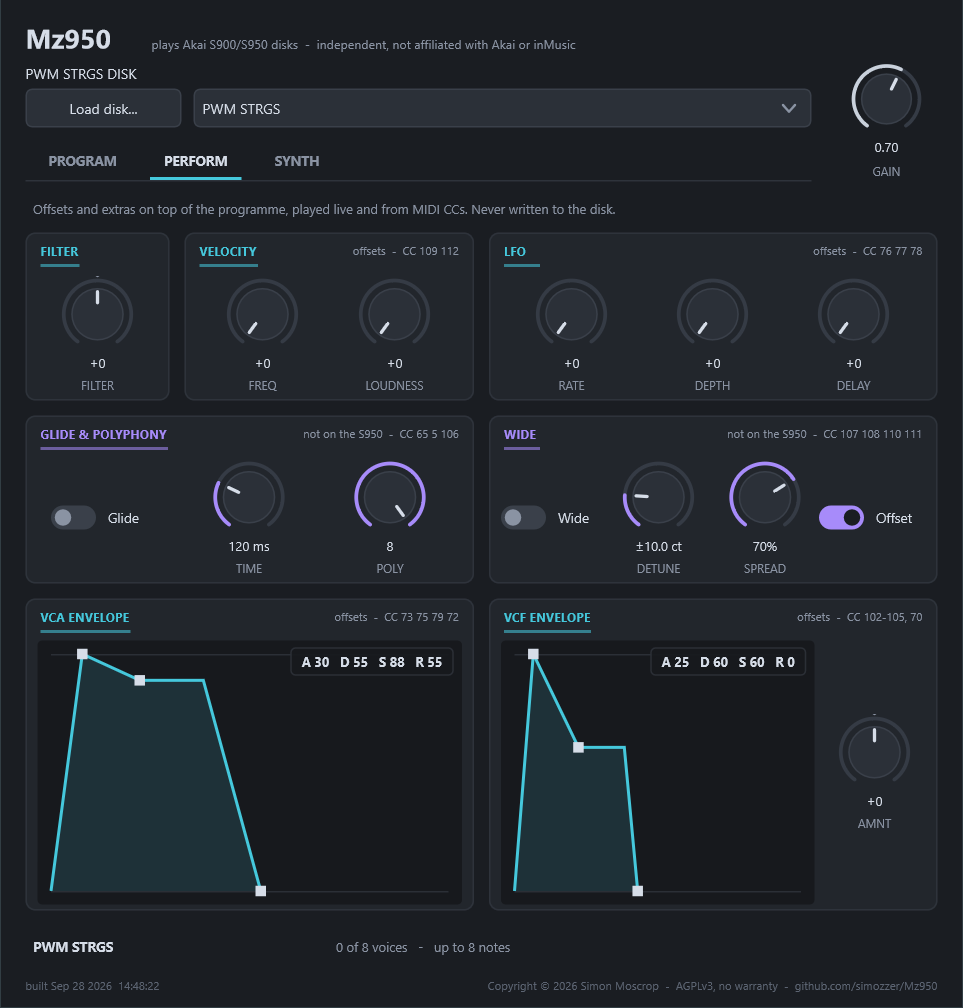
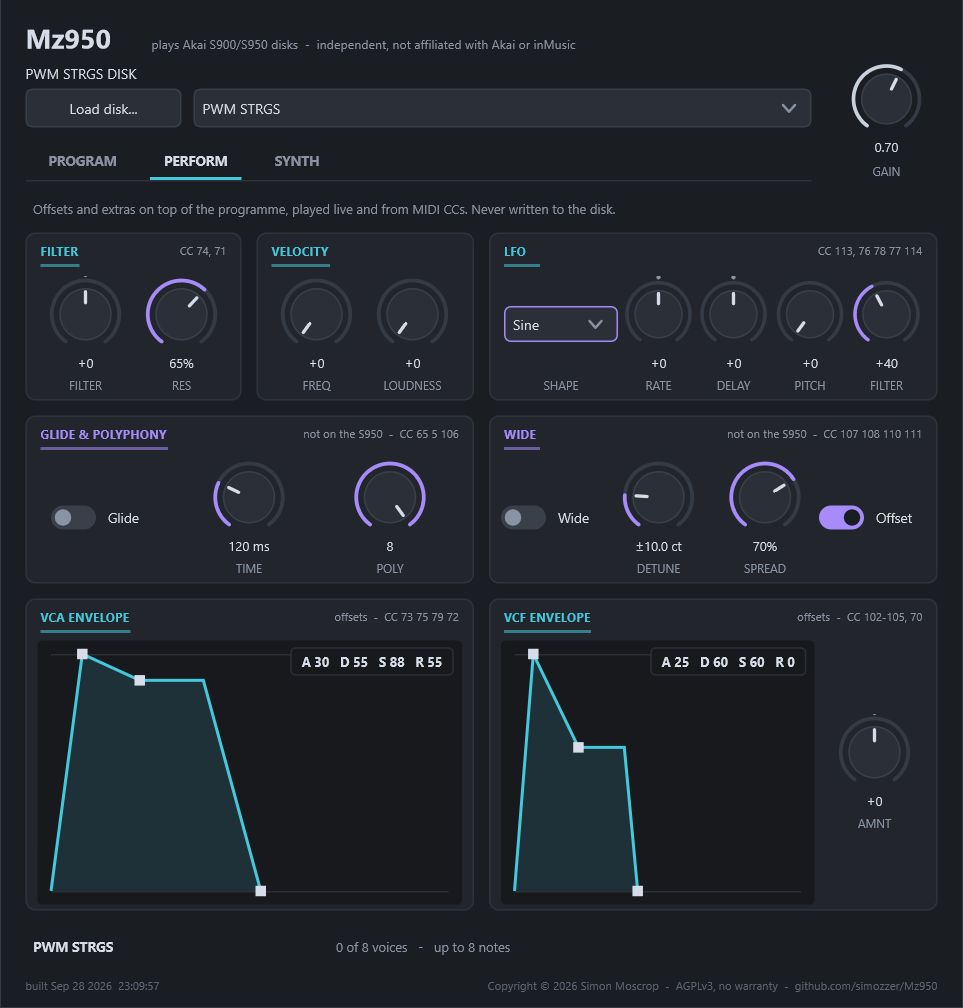
Docs: resonance, LFO shapes and the wider Perform LFO; new Perform screenshot

diff --git a/docs/tutorial.html b/docs/tutorial.html
@@ -430,12 +430,12 @@ there, save it, and load it here.</p>
 <h3>PERFORM — what you do on top of it</h3>
 
 <figure>
-  <img src="img/plugin-perform.png" alt="The Perform tab: the offsets, glide and polyphony, Wide, and the two envelopes as shapes">
+  <img src="img/plugin-perform.png" alt="The Perform tab: filter and resonance, velocity, the LFO with its shape, glide and polyphony, Wide, and the two envelopes as shapes">
   <figcaption>The Perform tab. Cyan panels are offsets on top of the programme; violet ones
   are the extras the S950 never had. Nothing here is ever written to the disk.</figcaption>
 </figure>
 
-<p><strong>Fifteen offsets</strong>, on top of whatever programme is loaded. Every one is an
+<p><strong>The offsets</strong>, on top of whatever programme is loaded. Every one is an
 <em>offset</em> from what the disk says rather than a setting: it reads zero until you turn
 it, double-clicks back to zero, and zero means "play what is on the floppy". That is not a
 detail. A programme carries its own cutoff and its own envelope for each keygroup, often
@@ -443,7 +443,7 @@ quite different ones across the keyboard, and an absolute control would flatten 
 the moment you touched it. An offset keeps the shape its author gave the programme and moves
 the whole of it at once — which is what "brighter" means on an instrument like this.</p>
 
-<p>All fifteen are automatable by the host, and all fifteen answer a MIDI controller — the
+<p>All of them are automatable by the host, and all of them answer a MIDI controller. The
 numbers are in each panel's corner:</p>
 
 <table>
@@ -453,7 +453,8 @@ numbers are in each panel's corner:</p>
       <td>CC 73, 75, 79, 72 · ±99</td></tr>
   <tr><th>VCF envelope</th><td>Attack, Decay, Sustain, Release</td>
       <td>CC 102, 103, 104, 105 · ±99</td></tr>
-  <tr><th>LFO</th><td>Rate, Depth, Delay</td><td>CC 76, 77, 78 · 0–99</td></tr>
+  <tr><th>LFO</th><td>Rate, Delay</td><td>CC 76, 78 · ±99</td></tr>
+  <tr><th>LFO</th><td>Pitch</td><td>CC 77 · 0–99</td></tr>
   <tr><th>Velocity</th><td>Freq, Loudness</td><td>CC 109, 112 · 0–99</td></tr>
 </table>
 
@@ -461,6 +462,19 @@ numbers are in each panel's corner:</p>
 labelled <em>cutoff</em>, <em>attack</em> or <em>vibrato rate</em> reaches the right ones with
 no mapping at all. 102–105 and 109/112 are undefined numbers, taken for the filter envelope
 and for velocity because GM has no assignments for those.</p>
+
+<p>The LFO knobs follow the S950's own scale over the S950's own range and <strong>carry on
+past it</strong>:</p>
+
+<ul>
+  <li><strong>Pitch</strong> keeps the machine's 1.5 cents a step up to +50, then grows to a
+      whole octave at +99.</li>
+  <li><strong>Rate</strong> slows below the machine's 1.8&nbsp;Hz, down to 0.1&nbsp;Hz.</li>
+  <li><strong>Delay</strong> can go negative, which shortens a programme's slow fade-in, or
+      removes it at −99, so short notes get the vibrato too.</li>
+</ul>
+
+<p>At zero, they're exactly the machine's.</p>
 
 <p>The two envelopes are <strong>dragged as shapes</strong> rather than set as eight knobs.
 The corners are the stages, and the graph draws the result for one representative keygroup —
@@ -470,9 +484,9 @@ sound like, not an abstract curve.</p>
 <p>Three things behave in ways worth knowing before they surprise you:</p>
 
 <ul>
-  <li><strong>The LFO and velocity knobs only add</strong>, 0 to 99, where the filter and
-      envelope trims go both ways. Nearly every programme leaves the LFO switched off, so a
-      knob that went negative would spend its whole lower half asking for less than nothing.</li>
+  <li><strong>LFO Pitch and the velocity knobs only add</strong>, 0 to 99, where the rest go
+      both ways. Nearly every programme leaves the LFO's depth at zero, so a knob that went
+      negative would spend its whole lower half asking for less than nothing.</li>
   <li><strong>Velocity → Loudness reaches the next note you play</strong>, not one already
       sounding. It decides how much softer a soft note is, and how hard a key was struck is
       settled when the key goes down. Velocity → Freq <em>does</em> reach a sounding note.</li>
@@ -484,10 +498,23 @@ sound like, not an abstract curve.</p>
 
 <h3>The extras — not on the S950</h3>
 
-<p>Three things the machine never had, in violet, each off by default so a disk still plays
-exactly as the machine would:</p>
+<p>Things the machine never had, in violet, each off or at zero by default, so a disk still
+plays exactly as the machine would:</p>
 
 <table>
+  <tr><th>Resonance</th><td>Res</td><td>CC 71</td>
+      <td>A peak at the filter's cutoff, rising to about +15&nbsp;dB. Past about 92% the
+      filter <strong>self-oscillates</strong>: it sings a sine at the cutoff, following the
+      Filter knob, the filter envelope and velocity, switched on and off by the amp envelope.
+      For a sine you can play in tune, set the keygroups' key-to-filter to 99 on the Program
+      tab. At 0% it's the S950's filter exactly.</td></tr>
+  <tr><th>LFO shape</th><td>Shape</td><td>CC 113</td>
+      <td>Sine (the S950's), Saw, Square or S&amp;H. S&amp;H picks a new random pitch every
+      cycle, at Rate. Every shape starts where the sine does, so switching doesn't jump a held
+      note.</td></tr>
+  <tr><th>LFO to filter</th><td>Filter</td><td>CC 114</td>
+      <td>The LFO moves the cutoff too, by up to three octaves either way, independently of
+      Pitch. Try Square or S&amp;H with some Res for the classic stepped filter.</td></tr>
   <tr><th>Glide</th><td>On, Time</td><td>CC 65, 5</td>
       <td>Portamento. Each note slides in from the last note played in the <em>same
       keygroup</em>, over a fixed time (CC 5: 0 is no glide, 127 is three seconds). Crossing

diff --git a/Plugin/README.md b/Plugin/README.md
@@ -74,9 +74,9 @@ by `build.ps1` on every disk in `disks/`, round-trips every setting and checks t
 byte of the image moves. `crosscheck.ps1` on an edited image confirms the C# Studio reads it
 identically. **An edited programme has not yet been loaded on a real S950.**
 
-**The player's controls.** Sixteen parameters, all automatable by the host and all reachable
-from a MIDI controller: gain, and fifteen trims that move every keygroup of the loaded
-programme together.
+**The player's controls.** Everything on the Perform tab, plus gain, is automatable by the
+host and reachable from a MIDI controller. Most of it is trims that move every keygroup of the
+loaded programme together.
 
 A trim is an *offset* from what the disk says, not a setting. It reads zero until you turn it
 and double-clicks back to zero, and zero means "play what is on the floppy". That matters
@@ -87,19 +87,50 @@ touched. An offset keeps the shape its author gave it and moves the whole of it,
 
 | group | controls | CC | range |
 |---|---|---|---|
-| Sample | Filter | 74 | ±99 |
+| Filter | Filter | 74 | ±99 |
+| Filter | Res *(not on the S950)* | 71 | 0–100%; self-oscillates from about 92% |
 | VCF | Amnt | 70 | ±50 |
 | VCA envelope | Attack, Decay, Sustain, Release | 73, 75, 79, 72 | ±99 |
 | VCF envelope | Attack, Decay, Sustain, Release | 102, 103, 104, 105 | ±99 |
-| LFO | Rate, Depth, Delay | 76, 77, 78 | 0..99 |
+| LFO | Shape *(Sine is the S950's)* | 113 | Sine, Saw, Square, S&H; CC in bands of 32 |
+| LFO | Rate, Delay | 76, 78 | ±99 |
+| LFO | Pitch | 77 | 0..99 |
+| LFO | Filter *(not on the S950)* | 114 | 0..99, up to ±3 octaves of cutoff |
 | Velocity | Freq, Loudness | 109, 112 | 0..99 |
 | Glide *(not on the S950)* | On, Time | 65, 5 | off/on; 0 (no glide) – 3 s |
 | Polyphony *(not on the S950)* | Poly | 106 | 1 (mono) – 8; CC in bands of 16 |
 | Wide *(not on the S950)* | On, Detune, Spread, Offset start | 107, 108, 110, 111 | off/on; ±0–50 cents; 0–100%; off/on |
 
-**Glide is the one addition to the machine.** Everything else here is the S950, measured;
-the S950 has no portamento. It is off by default, so a programme still plays as the disk
-describes it. CC 65 and CC 5 are General MIDI's own portamento switch and time, so a keyboard
+**The additions** are marked *not on the S950* above and drawn in violet on the tab.
+Everything else is the S950, measured. Every addition is off or at zero by default, so a
+programme plays as the disk describes it until you reach for one.
+
+**Resonance.** The S950's filter is a plain 36 dB/octave Butterworth with no peak. **Res**
+raises one up at the cutoff, to about +15 dB at 90%. The input eases down as it rises, by about
+6 dB at the top, the way an analogue filter loses passband, so a hot sample doesn't clip. Past
+about **92% the filter self-oscillates**: it produces a sine at the cutoff that follows Filter,
+the filter envelope, velocity and the LFO's Filter depth, and the VCA switches it on and off.
+It settles at −14 dB per voice, within 0.1% of the cutoff, with harmonics and aliasing below
+−54 dB at 44.1, 48 and 96 kHz. At 0% the filter matches the S950's to within 10⁻¹². It isn't
+tuned to the keyboard: for a playable sine, set the keygroups' key-to-filter to 99 on the
+Program tab.
+
+**The LFO.** The S950's is a sine that moves the pitch. The Perform tab adds three things:
+- **Shape**: Saw, Square and S&H as well as Sine. Every shape starts where the sine does, so
+  changing shape under a held note doesn't jump its pitch. S&H picks a new random level each
+  cycle. Keygroups sharing the programme's LFO (desync off) step together, and desynced ones
+  step on their own.
+- **A longer reach:**
+  - **Pitch** depth follows the machine's 1.5 cents a step to +50, then grows to a whole
+    octave at +99.
+  - **Rate** goes below the machine's slowest (1.8 Hz), down to 0.1 Hz.
+  - **Delay** can go negative, to shorten or remove a programme's fade-in.
+- **Filter depth**: the LFO moves the cutoff as well, by up to three octaves either way,
+  independently of Pitch. With Square or S&H, that's the classic stepped filter.
+
+At zero, every one of these is the S950's own LFO.
+
+**Glide.** The S950 has no portamento. CC 65 and CC 5 are General MIDI's own portamento switch and time, so a keyboard
 with a glide control reaches them with no mapping. A glide takes the set time whatever the
 interval, straight in semitones, and **stays inside a keygroup**: a note slides from the last
 note played in its own keygroup, and crossing into another one — a different sample, and on a
@@ -126,8 +157,9 @@ and the release hand-over all move both halves together.
 
 72–79 are the General MIDI sound controllers, so a keyboard with knobs labelled *cutoff* and
 *attack* reaches the right ones with no mapping — including 76, 77 and 78 for vibrato rate,
-depth and delay, which is what this machine's LFO is. 102–105 and 109/112 are undefined
-numbers taken for the filter envelope and for velocity, which GM has no assignments for.
+depth and delay, which is what this machine's LFO is, and 71 for resonance. 102–105, 109/112,
+113 and 114 are undefined numbers taken for the filter envelope, velocity, the LFO's shape and
+its filter depth, which GM has no assignments for.
 
 The two envelopes are dragged as shapes rather than set as eight knobs: the corners are the
 stages, and the graph shows the result for one representative keygroup — the programme's own
@@ -135,10 +167,10 @@ values with the trim added — so it is honest about what you will actually hear
 
 Three behaviours worth knowing before they surprise you:
 
-- **The LFO and velocity knobs only add.** The filter and envelope trims go both ways because
-  a programme always has an envelope and always has a cutoff. Nearly every programme leaves
-  the LFO switched off, so a symmetric knob there would spend its whole lower half asking for
-  less than nothing and clamping at zero.
+- **LFO Pitch and Filter, and the velocity knobs, only add.** Nearly every programme leaves the
+  LFO's depth at zero, so a symmetric knob there would spend its whole lower half asking for
+  less than nothing. Rate and Delay go both ways, because a programme always has a rate and a
+  fade-in to move. Past the machine's own range they carry on, as described above.
 - **Velocity → Loudness reaches the next note you play**, not one already sounding. It decides
   how much softer a soft note is, which is a question about the strike, and the strike is over.
   Velocity → Freq does reach a sounding note, because a filter control you cannot play with is
@@ -168,7 +200,8 @@ checked on its own, long before a plugin will load.
 
 ```
 Source/S950/Cal.h           the measured constants, and the mappings from panel bytes
-Source/S950/Filter.h        6th-order Butterworth, three biquads
+Source/S950/Filter.h        6th-order Butterworth: two biquads and a state-variable stage
+                            that resonates and self-oscillates (not the S950's)
 Source/S950/Patch.h         Sound, KeygroupPatch, Patch — what a voice needs
 Source/S950/Disk.h/cpp      reading an .hfe or .img into a Patch; editing keygroup settings
                             in place; building a disk from nothing (samples, programmes,

diff --git a/CHANGELOG.md b/CHANGELOG.md
@@ -6,6 +6,73 @@ Every number here came off a recording of a real S950 rather than out of a manua
 a change is a measurement it says what was measured and what it replaced. Where it is an
 assumption it says that too — those are the ones another afternoon with a recorder settles.
 
+## v0.6.0 — 2026-09-28
+
+Filter resonance up to self-oscillation, LFO shapes, and a Perform-tab LFO that reaches the
+filter and goes further than the S950's. None of it is written to the disk, and at zero all of
+it is the machine.
+
+### Filter resonance
+
+A **Res** knob beside Filter on the Perform tab, MIDI CC 71. The S950's filter has no
+resonance, so this is an addition like glide and Wide, in their violet. It starts at 0%, where
+the filter is the machine's, matching the old one to within 1e-12.
+
+- **Up to 90%:** the peak at the cutoff rises to about +15 dB and the slope stays 36 dB an
+  octave. The input eases down as it rises, by about 6 dB at the top of the range, the way an
+  analogue filter loses passband, so a hot sample doesn't clip.
+- **Past about 92%:** the filter **self-oscillates**, a sine at the cutoff. It follows the
+  Filter knob, the filter envelope and velocity, and the VCA gates it. It settles at -14 dB
+  per voice. The pitch is within 0.2% of the cutoff, and harmonics and aliasing stay below
+  -54 dB at 44.1, 48 and 96 kHz, even with the filter wide open.
+
+How: the filter's resonant stage (Q 1.93) is now a state-variable filter instead of a biquad,
+since a biquad can only ring, never sustain. It has an automatic level control: its damping
+rises with its own smoothed band-pass power and, past the threshold, goes negative. A first
+version damped on the instantaneous signal. It held the level just as well but bent the sine,
+and at a 16 kHz cutoff it folded a tone back at -16 dB. The smoothed follower removed that.
+The other two stages are unchanged. Resonance moves notes already sounding.
+
+### LFO shapes
+
+A **Shape** box in the Perform tab's LFO panel, MIDI CC 113 in four bands of 32: **Sine**,
+**Saw**, **Square** and **S&H**. Sine is the S950's LFO and stays the default. The other three
+are additions, and like Res it is a performance setting that is never written to the disk.
+Rate, depth, delay and desync work as before for every shape.
+
+- **Every shape starts where the sine does,** at the centre and heading up, so switching
+  shape under a held note doesn't throw it to the other side of its pitch.
+- **Saw** rises to the top, jumps to the bottom and rises back.
+- **Square** sits high for the first half of each cycle.
+- **S&H** holds one random pitch per cycle and steps to a new one at Rate. The level comes
+  from a hash of the cycle number, not a running generator. So voices riding the programme's
+  shared LFO (desync off) step together, while a desynced keygroup's notes each have their own.
+
+### The Perform tab's LFO reaches past the S950's, and can move the filter
+
+Reported: the LFO knobs were hard to hear. On the running plugin they did work: Depth +50 was
+±79 cents on PWM STRGS. But four things got in the way, and all four are fixed:
+
+- **Rate did nothing on shared-LFO keygroups (fixed bug).** Keygroups riding the programme's
+  shared LFO (desync off) ignored the Rate knob entirely: the shared oscillator's speed was set
+  once, when the programme loaded. It now takes the trim every stretch.
+- **Pitch depth only reached the S950's ±150 cents.** It keeps the machine's 1.5 cents a step up to
+  +50, then grows to **a whole octave at +99**, so square and S&H become pitch jumps you can't
+  miss.
+- **Rate could only add.** It now goes both ways. Above zero it's the S950's measured curve.
+  Below it, it carries on past the machine's slowest (1.8 Hz) down to **0.1 Hz**.
+- **Delay could only add**, so it couldn't remove a programme's slow fade-in, and short notes
+  never reached any depth. It goes both ways too. Below zero it shortens the fade, to **none at
+  all** at -99.
+
+**Filter depth**, new: a knob in the LFO panel, on MIDI CC 114, that sends the LFO to the cutoff,
+up to three octaves either way. It uses the LFO's rate, shape and delay, and its depth is
+separate from Pitch. A square or S&H there gives the classic stepped filter. Not on the
+S950, so it's violet.
+
+With every trim at zero the LFO is exactly the S950's, as before. A session saved with LFO
+Depth past +50 will now sound deeper.
+
 ## v0.5.3 — 2026-09-28
 
 The Program tab's keygroups over a piano keyboard, a keygroup list, and a demo mode that

diff --git a/README.md b/README.md
@@ -41,9 +41,10 @@ Gotek, play it from a MIDI keyboard, and use the plugin in a DAW. The editor ope
 The plugin's half is also in [Plugin/README.md](Plugin/README.md#using-it) — how a disk is
 loaded, how programmes reach the host's own selector, what a saved song remembers (all of it:
 the whole image rides in the project), and the three tabs: **Program**, which edits every
-keygroup setting on the disk; **Perform**, the fifteen offsets with the MIDI controller
-numbers that reach them, plus glide, polyphony and Wide; and **Synth**, which makes sounds
-with no disk at all.
+keygroup setting on the disk; **Perform**, the offsets with the MIDI controller numbers that
+reach them, plus things the S950 never had: filter resonance up to self-oscillation, LFO
+shapes (saw, square, S&H), an LFO that reaches the filter and further than the machine's,
+glide, polyphony and Wide; and **Synth**, which makes sounds with no disk at all.
 
 [**CHANGELOG.md**](CHANGELOG.md) is what changed between releases, and is where the notes for
 a tag come from.
